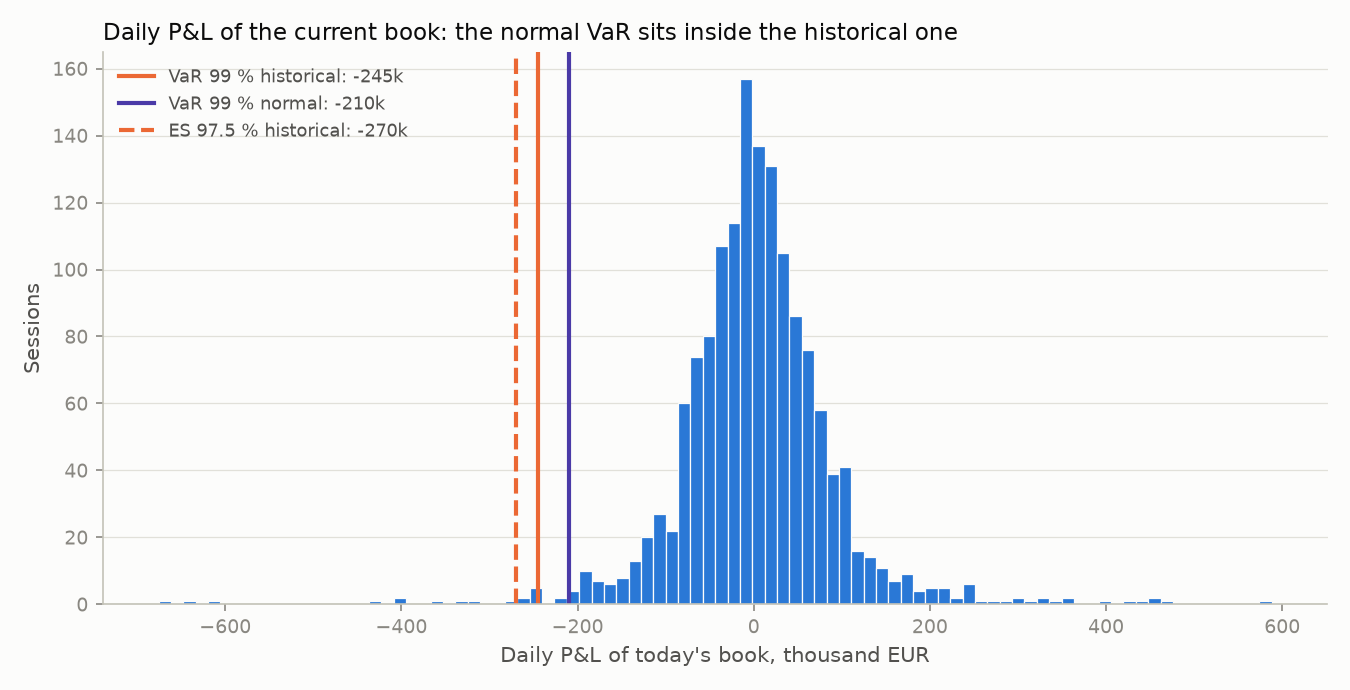
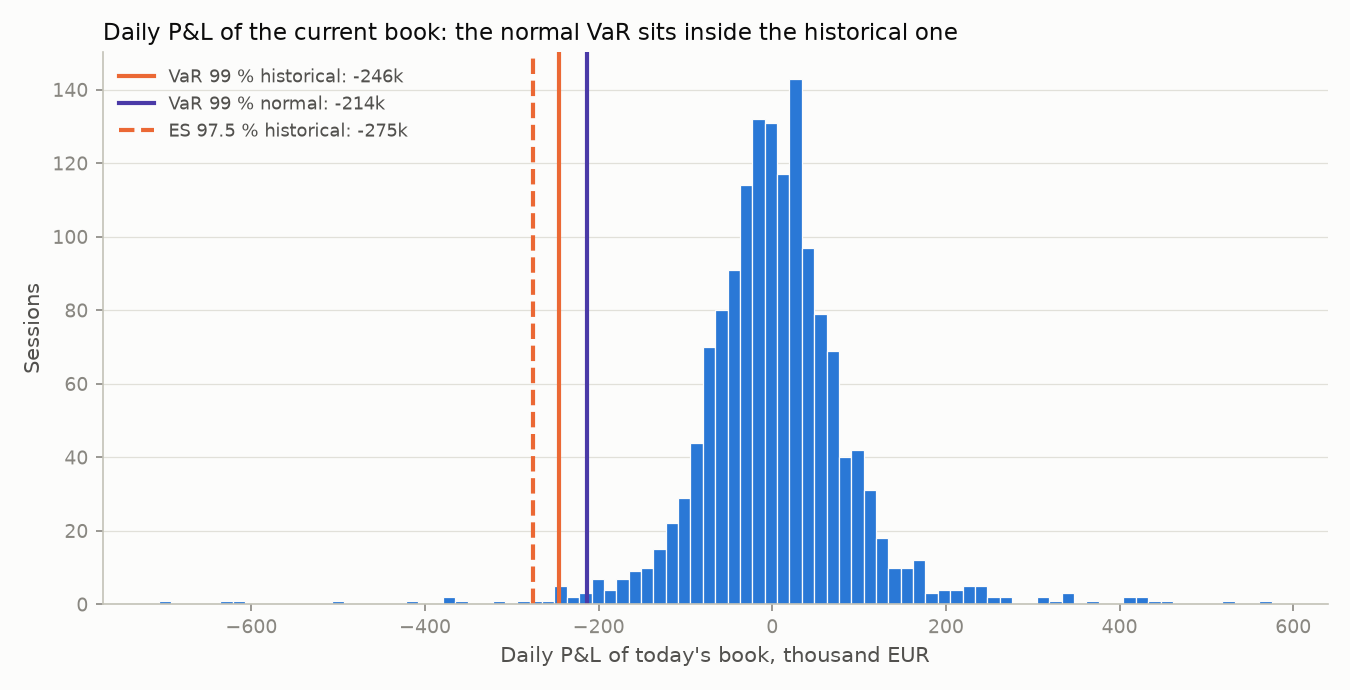
Add two fictitious illiquid lines to the demo book
A small cap and a thinly traded stock, about 10 % of a EUR 10 m book, drawn
from their own random stream (European equity factor plus fat-tailed own
risk) so that the other synthetic paths are unchanged. The liquidity stress
now lists the least liquid lines with their days to sell at 20 %, 10 % and
5 % of volume. Live mode leaves the fictitious lines out. Demo output,
charts and README regenerated.

diff --git a/src/risk_engine/data/synthetic.py b/src/risk_engine/data/synthetic.py
@@ -17,7 +17,7 @@ N_DAYS = 1500
 END_DATE = "2025-10-31"
 STUDENT_DF = 4
 TROY_OUNCES_PER_KG = 1000 / 31.1034768
-BOOK_SCALE = 13
+BOOK_SCALE = 12
 
 SECURITIES = pd.DataFrame(
     [
@@ -38,6 +38,10 @@ SECURITIES = pd.DataFrame(
          "Life Insurance", "Hong Kong", "Hong Kong", 1.0),
         ("GIVN.SW", "Givaudan", "CHF", "equity", "Materials",
          "Specialty Chemicals", "Switzerland", "SIX Swiss", 1.0),
+        ("FIC-SC", "Fictitious small cap", "EUR", "equity", "Industrials",
+         "Machinery", "Germany", "XETRA", 1.0),
+        ("FIC-LV", "Fictitious low-volume line", "EUR", "equity", "Consumer Staples",
+         "Food Products", "Italy", "Borsa Italiana", 1.0),
         ("GOLD-KG", "Gold, 1 kg bar", "USD", "metal", None,
          None, None, "Metal", TROY_OUNCES_PER_KG),
     ],
@@ -58,7 +62,12 @@ _ASSET_PARAMS = {
     "GOLD-KG": (0.15, 0.05, 1750.0),
 }
 _REGION = {"PG": "US", "ADBE": "US", "ADS.DE": "EU", "PHIA.AS": "EU", "KNEBV.HE": "EU",
-           "6758.T": "JP", "1299.HK": "HK", "GIVN.SW": "CH", "GOLD-KG": "GOLD"}
+           "6758.T": "JP", "1299.HK": "HK", "GIVN.SW": "CH", "GOLD-KG": "GOLD",
+           "FIC-SC": "EU", "FIC-LV": "EU"}
+# Two fictitious illiquid lines, drawn from their own random stream so that the paths of
+# the other securities do not depend on them: loading on the European equity factor,
+# idiosyncratic volatility, annual drift, starting price.
+FICTITIOUS = {"FIC-SC": (0.9, 0.32, 0.02, 14.0), "FIC-LV": (0.5, 0.20, 0.04, 55.0)}
 _FX_PARAMS = {"USD": (0.075, 1.10), "JPY": (0.095, 130.0), "CHF": (0.055, 1.02)}
 _HKD_PEG = 7.80
 
@@ -68,6 +77,7 @@ _DIVIDENDS = [
     ("ADS.DE", 5, 15, 3.00), ("PHIA.AS", 5, 10, 0.85), ("KNEBV.HE", 3, 5, 1.75),
     ("6758.T", 3, 28, 40.0), ("6758.T", 9, 27, 40.0),
     ("1299.HK", 5, 20, 1.20), ("1299.HK", 8, 25, 0.50), ("GIVN.SW", 3, 25, 68.0),
+    ("FIC-LV", 5, 22, 1.60),
 ]
 
 
@@ -142,7 +152,7 @@ def _holiday_mask(rng: np.random.Generator, dates: pd.DatetimeIndex, tickers: li
 def _simulate_paths(rng: np.random.Generator, dates: pd.DatetimeIndex
                     ) -> tuple[pd.DataFrame, pd.DataFrame]:
     """Log-return paths for securities (quote currency) and FX (units per EUR)."""
-    tickers = list(SECURITIES.index)
+    tickers = list(_ASSET_PARAMS)
     names = tickers + list(_FX_PARAMS)
     n = len(dates)
     shocks = _student_t_shocks(rng, _correlation(names), n) * _volatility_regime(n)[:, None]
@@ -160,6 +170,22 @@ def _simulate_paths(rng: np.random.Generator, dates: pd.DatetimeIndex
     fx_per_eur = pd.DataFrame(levels[:, len(tickers):], index=dates, columns=list(_FX_PARAMS))
     fx_per_eur["HKD"] = fx_per_eur["USD"] * _HKD_PEG * np.exp(rng.normal(0, 4e-4, n))
     return prices, fx_per_eur
+
+
+def _fictitious_paths(seed: int, prices: pd.DataFrame) -> pd.DataFrame:
+    """Illiquid lines: European equity factor x loading, plus fat-tailed own risk."""
+    rng = np.random.default_rng([seed, 1])
+    n = len(prices)
+    europe = [t for t in _ASSET_PARAMS if _REGION[t] == "EU"]
+    factor = np.log(prices[europe]).diff().mean(axis=1).fillna(0.0).to_numpy()
+    regime = _volatility_regime(n)
+    out = {}
+    for ticker, (loading, own_vol, drift, start) in FICTITIOUS.items():
+        own = rng.standard_t(STUDENT_DF, n) * np.sqrt((STUDENT_DF - 2) / STUDENT_DF)
+        log_ret = loading * factor + own * regime * own_vol / np.sqrt(252) + drift / 252
+        log_ret[0] = 0.0
+        out[ticker] = start * np.exp(np.cumsum(log_ret))
+    return pd.DataFrame(out, index=prices.index)
 
 
 def _dividend_table(dates: pd.DatetimeIndex) -> pd.DataFrame:
@@ -198,9 +224,11 @@ def _add_metal_weekends(prices: pd.DataFrame, rng: np.random.Generator) -> pd.Da
 
 
 def _volumes(rng: np.random.Generator, dates: pd.DatetimeIndex) -> pd.DataFrame:
-    """Daily traded shares over the last 120 sessions, with one drying-up and one busy name."""
+    """Daily traded shares over the last 120 sessions, with one drying-up and one busy name,
+    and two thinly traded fictitious lines."""
     adv = {"PG": 7e6, "ADBE": 3e6, "ADS.DE": 6e5, "PHIA.AS": 3e6, "KNEBV.HE": 5e5,
-           "6758.T": 5e6, "1299.HK": 2.5e7, "GIVN.SW": 2.5e4, "GOLD-KG": np.nan}
+           "6758.T": 5e6, "1299.HK": 2.5e7, "GIVN.SW": 2.5e4, "GOLD-KG": np.nan,
+           "FIC-SC": 4.5e4, "FIC-LV": 5.5e3}
     recent = dates[-120:]
     data = {}
     for t, base in adv.items():
@@ -216,8 +244,9 @@ def _volumes(rng: np.random.Generator, dates: pd.DatetimeIndex) -> pd.DataFrame:
 def _betas() -> pd.Series:
     """Illustrative vendor-style betas, used for the value-weighted beta of the book."""
     return pd.Series({"PG": 0.45, "ADBE": 1.20, "ADS.DE": 1.10, "PHIA.AS": 0.90,
-                      "KNEBV.HE": 0.70, "6758.T": 0.95, "1299.HK": 0.85, "GIVN.SW": 0.60},
-                     name="beta")
+                      "KNEBV.HE": 0.70, "6758.T": 0.95, "1299.HK": 0.85, "GIVN.SW": 0.60,
+                      "FIC-SC": 1.15, "FIC-LV": 0.55}, name="beta")
+
 
 def _bricks(rng: np.random.Generator, prices: pd.DataFrame, fx_to_eur: pd.DataFrame
             ) -> tuple[pd.DataFrame, pd.DataFrame]:
@@ -280,10 +309,13 @@ def build_journal(prices: pd.DataFrame, fx_to_eur: pd.DataFrame, securities: pd.
         (820, "KNEBV.HE", "SELL", 500), (880, "PHIA.AS", "SELL", 1000),
         (880, "PHIA.AS", "BUY", 1500), (1000, "1299.HK", "BUY", 4000), (1100, "PG", "BUY", 150),
         (1250, "ADS.DE", "SELL", 100), (1400, "ADBE", "BUY", 40),
+        (12, "FIC-SC", "BUY", 3500), (12, "FIC-LV", "BUY", 600), (1300, "FIC-SC", "BUY", 700),
     ]
     rows = []
     for i, name, side, qty in trades:
         ticker = name if name in securities.index else _replacement(name, securities)
+        if ticker is None:
+            continue
         d = day(i)
         close = prices[ticker].loc[:d].dropna().iloc[-1]
         unit = securities.at[ticker, "unit_factor"]
@@ -296,10 +328,12 @@ def build_journal(prices: pd.DataFrame, fx_to_eur: pd.DataFrame, securities: pd.
     return pd.DataFrame(rows, columns=cols)
 
 
-def _replacement(name: str, securities: pd.DataFrame) -> str:
-    """The security standing in for a synthetic one (the metal line in live mode)."""
-    same_class = securities[securities["asset_class"] == SECURITIES.at[name, "asset_class"]]
-    return same_class.index[0]
+def _replacement(name: str, securities: pd.DataFrame) -> str | None:
+    """The security standing in for a synthetic one in live mode: a gold tracker for the
+    metal line; none for the fictitious lines, which have no market data and are skipped."""
+    if SECURITIES.at[name, "asset_class"] != "metal":
+        return None
+    return securities[securities["asset_class"] == "metal"].index[0]
 
 
 def declared_holdings(journal: pd.DataFrame) -> pd.Series:
@@ -314,6 +348,7 @@ def generate_market(seed: int = DEFAULT_SEED) -> MarketData:
     rng = np.random.default_rng(seed)
     dates = pd.bdate_range(end=END_DATE, periods=N_DAYS)
     prices, fx_per_eur = _simulate_paths(rng, dates)
+    prices = prices.join(_fictitious_paths(seed, prices))
     dividends = _dividend_table(dates)
     prices = _apply_ex_dividend_drops(prices, dividends)
     prices = prices.mask(_holiday_mask(rng, dates, list(prices.columns)))
@@ -333,5 +368,5 @@ def generate_market(seed: int = DEFAULT_SEED) -> MarketData:
         brick_distributions=dist,
         journal=journal,
         declared_holdings=declared_holdings(journal),
-        cash={"EUR": 600_000.0, "USD": 500_000.0},
+        cash={"EUR": 400_000.0, "USD": 350_000.0},
     )

diff --git a/src/risk_engine/report.py b/src/risk_engine/report.py
@@ -68,9 +68,17 @@ def format_report(r: dict) -> str:
             lines.append(f"{h['name']:<32} {_eur(h['pnl_eur'])} {h['pnl_pct']:>7.2f}%   "
                          f"{h['start'].date()} to {h['end'].date()}")
     liq = r["liquidity"]
-    lines.append(_rule("Liquidity stress (days to sell, value-weighted)"))
-    lines.append("  ".join(f"{k} {v:.2f} d" for k, v in liq["score_days"].items())
-                 + f"   coverage {liq['coverage_pct']:.1f} %")
+    lines.append(_rule("Liquidity stress: days to sell at 20 % / 10 % / 5 % of 10-day volume"))
+    lines.append(f"{'line':<22} {'weight':>7} {'normal':>8} {'moderate':>9} {'severe':>8}")
+    book = liq["lines"]
+    worst = book.dropna(subset=["days_normal"]).sort_values("days_normal", ascending=False)
+    for ticker, row in worst.head(5).iterrows():
+        lines.append(f"{ticker:<22} {row['value_eur'] / book['value_eur'].sum():>7.1%} "
+                     f"{row['days_normal']:>8.2f} {row['days_moderate']:>9.2f} "
+                     f"{row['days_severe']:>8.2f}")
+    s = liq["score_days"]
+    lines.append(f"{'book, value-weighted':<22} {liq['coverage_pct'] / 100:>7.1%} "
+                 f"{s['normal']:>8.2f} {s['moderate']:>9.2f} {s['severe']:>8.2f}")
     if "benchmark" in r and r["benchmark"].get("ok"):
         b = r["benchmark"]
         lines.append(_rule("Against the composite benchmark"))

diff --git a/src/risk_engine/data/live.py b/src/risk_engine/data/live.py
@@ -5,8 +5,9 @@ data, so none of it is committed. Only completed sessions are used: a row dated 
 be an intraday quote, not a close. Closes are split-adjusted but not dividend-adjusted;
 dividends are downloaded separately and added on their ex-date, as in synthetic mode,
 so they are never counted twice. The metal line is replaced by a listed gold tracker
-(held in shares, unit factor 1). Betas keep the illustrative synthetic values, and the
-benchmark bricks are not downloaded.
+(held in shares, unit factor 1) and the two fictitious illiquid lines are left out, since
+they have no market data. Betas keep the illustrative synthetic values, and the benchmark
+bricks are not downloaded.
 """
 
 from __future__ import annotations
@@ -43,7 +44,7 @@ def _download(symbol: str, refresh: bool) -> pd.DataFrame:
 
 def live_securities() -> pd.DataFrame:
     """The synthetic universe with the metal bar swapped for a gold tracker in shares."""
-    secs = synthetic.SECURITIES.drop(index="GOLD-KG")
+    secs = synthetic.SECURITIES.drop(index=["GOLD-KG", *synthetic.FICTITIOUS])
     gold = pd.DataFrame([{"name": "Gold tracker", "currency": "USD", "asset_class": "metal",
                           "sector": None, "industry": None, "country": None,
                           "venue": "Metal", "unit_factor": 1.0}], index=[GOLD_TRACKER])

diff --git a/tests/test_reproducibility.py b/tests/test_reproducibility.py
@@ -26,5 +26,13 @@ def test_market_shape(market):
     weekdays = market.prices[market.prices.index.weekday < 5]
     assert len(weekdays) == 1500
     assert (market.prices.index.weekday >= 5).any()  # metal weekend quotes exist
-    assert weekdays.iloc[:, :-1].isna().any().all()  # every exchange has holidays
-    assert weekdays.iloc[:, -1].notna().all()  # the metal never closes on a weekday
+    listed = weekdays.drop(columns="GOLD-KG")
+    assert listed.isna().any().all()  # every exchange has holidays
+    assert weekdays["GOLD-KG"].notna().all()  # the metal never closes on a weekday
+
+
+def test_fictitious_lines_follow_europe_with_their_own_risk(market):
+    weekdays = market.prices[market.prices.index.weekday < 5]
+    r = weekdays.pct_change(fill_method=None)
+    for ticker in ("FIC-SC", "FIC-LV"):
+        assert 0.1 < r[ticker].corr(r["ADS.DE"]) < 0.9

diff --git a/tests/test_liquidity_and_stress.py b/tests/test_liquidity_and_stress.py
@@ -12,6 +12,15 @@ def test_stressed_scores_are_exactly_two_and_four_times_normal(result):
     assert liq["coverage_pct"] < 100  # the metal line has no traded volume
 
 
+def test_illiquid_lines_take_several_days_to_sell(result):
+    liq = result["liquidity"]
+    lines = liq["lines"]
+    assert list(liq["least_liquid"].index[:2]) == ["FIC-LV", "FIC-SC"]
+    assert (lines.loc[["FIC-LV", "FIC-SC"], "days_normal"] > 3).all()
+    share = lines.loc[["FIC-LV", "FIC-SC"], "value_eur"].sum() / result["valuation"]["total_eur"]
+    assert share == pytest.approx(0.10, abs=0.02)
+
+
 def test_days_to_liquidate_and_volume_trend():
     adv = pd.DataFrame({"adv10": [1000.0, 500.0], "adv90": [1000.0, 1000.0]}, index=["A", "B"])
     out = liquidity.compute_liquidity_metrics(pd.Series({"A": 400.0, "B": 400.0}),

diff --git a/README.md b/README.md
@@ -54,43 +54,54 @@ imported the checked code would share its bugs and prove nothing.
 
 ## Results on the synthetic data (seed 20240613)
 
-`python -m risk_engine demo` values a EUR 10.1 m book (8 securities, 2 cash pockets) on
-2025-10-31, over 1,498 daily returns.
+`python -m risk_engine demo` values a EUR 10.0 m book on 2025-10-31: eight listed names,
+two fictitious illiquid lines (a small cap and a thinly traded stock, 10 % of the total)
+and two cash pockets, over 1,495 daily returns.
 
 | Method | Level | VaR % | ES % | VaR EUR | ES EUR |
 |---|---|---|---|---|---|
-| historical | 95 % | -1.360 | -2.306 | -122,188 | -207,136 |
-| historical | 97.5 % | -1.956 | -3.005 | -175,669 | -269,923 |
-| historical | 99 % | -2.724 | -4.248 | -244,617 | -381,565 |
-| normal | 95 % | -1.642 | -2.066 | -147,446 | -185,550 |
-| normal | 97.5 % | -1.962 | -2.345 | -176,181 | -210,635 |
-| normal | 99 % | -2.334 | -2.678 | -209,590 | -240,491 |
+| historical | 95 % | -1.318 | -2.261 | -122,653 | -210,387 |
+| historical | 97.5 % | -1.865 | -2.958 | -173,498 | -275,246 |
+| historical | 99 % | -2.643 | -4.188 | -245,927 | -389,683 |
+| normal | 95 % | -1.617 | -2.035 | -150,476 | -189,341 |
+| normal | 97.5 % | -1.932 | -2.310 | -179,784 | -214,926 |
+| normal | 99 % | -2.299 | -2.637 | -213,861 | -245,379 |
 
-Annualised volatility 16.12 %; maximum drawdown -25.36 % (peak 2020-08-25, trough
-2020-09-21, recovered 2021-08-13). Witness check: OK (max rel. diff 1.7e-15).
+Annualised volatility 15.87 %; maximum drawdown -25.60 % (peak 2020-08-25, trough
+2020-09-21, recovered 2021-08-17). Witness check: OK (max rel. diff 1.5e-15).
 
 | 99 % VaR backtest | Days | Exceptions | Expected | Kupiec p | Christoffersen p | Last 250 | Worst 250 |
 |---|---|---|---|---|---|---|---|
-| historical | 1,248 | 14 | 12.5 | 0.67 | 0.15 | 3 (green) | 5 (yellow) |
-| normal | 1,248 | 16 | 12.5 | 0.34 | 0.20 | 4 (green) | 8 (yellow) |
+| historical | 1,245 | 15 | 12.5 | 0.48 | 0.55 | 3 (green) | 6 (yellow) |
+| normal | 1,245 | 18 | 12.5 | 0.14 | 0.47 | 4 (green) | 8 (yellow) |
 
-On this one draw the difference is modest. `python -m risk_engine seeds` repeats the
-backtest on 30 synthetic histories: the normal VaR averages 17.3 exceptions for 12.5
-expected and Kupiec rejects it in 10 of 30 cases, against 15.3 exceptions and no rejection
-for the historical VaR. On fat-tailed returns the normal law places the 99 % quantile too
-close to the centre, and its ES understates the tail even more (-2.68 % against -4.25 %).
+On one draw the difference is modest. `python -m risk_engine seeds` repeats the backtest
+on 30 synthetic histories: the normal VaR averages 16.9 exceptions for 12.4 expected and
+Kupiec rejects it in 6 of 30 cases, against 15.6 exceptions and 1 rejection for the
+historical VaR. On fat-tailed returns the normal law places the 99 % quantile too close
+to the centre, and its ES understates the tail even more (-2.64 % against -4.19 %).
 In `--live` mode on real closes (run in September 2026) both methods were rejected and
 exceptions clustered (Christoffersen p below 0.001): an unconditional VaR reacts too
 slowly to volatility regimes.
 
 | Stress (share of wealth) | Loss |
 |---|---|
-| Equities -20 % | -15.60 % |
-| USD -10 % against EUR (HKD pegged) | -5.89 % |
-| Asia -25 % | -6.45 % |
-| Gold +15 % | +1.69 % |
-| Worst 5 sessions of the sample | -16.38 % |
-| Liquidity: days to sell at 20 % / 10 % / 5 % of volume | 0.04 / 0.07 / 0.15 |
+| Equities -20 % | -16.45 % |
+| USD -10 % against EUR (HKD pegged) | -5.34 % |
+| Asia -25 % | -5.97 % |
+| Gold +15 % | +1.57 % |
+| Worst 5 sessions of the sample | -16.96 % |
+
+| Liquidity stress: days to sell | Weight | 20 % of volume | 10 % | 5 % |
+|---|---|---|---|---|
+| Fictitious low-volume line | 6.3 % | 6.60 | 13.21 | 26.42 |
+| Fictitious small cap | 4.6 % | 4.74 | 9.49 | 18.98 |
+| Most illiquid listed name | 11.0 % | 0.10 | 0.19 | 0.39 |
+| Book, value-weighted (88.7 % covered; the metal has no volume) | | 0.75 | 1.49 | 2.98 |
+
+Two lines holding a tenth of the book account for about 95 % of the value-weighted score,
+and the score hides the tail: at a 5 % participation rate the last line would take 26
+sessions, more than five weeks, to sell.
 
 ![Distribution of daily P&L with VaR and ES](docs/img/pnl_distribution.png)
 
@@ -122,7 +133,8 @@ Python 3.11 or later; numpy, pandas, scipy, matplotlib; yfinance only for `--liv
   returns and a static book; clustering and autocorrelation make it wrong in stress.
 - **Synthetic data.** Prices, volumes, dividends and betas are simulated
   (multivariate Student-t, 4 degrees of freedom, two stressed regimes, a few crisis days).
-  The securities are real names used as labels only. Results say nothing about them.
+  The listed securities are real names used as labels only, and the two illiquid lines
+  are invented. Results say nothing about any company.
 - **Calendar.** No exchange holiday calendar: a closure longer than three sessions takes a
   line out of the valuation total, which is then flagged as incomplete.
 
